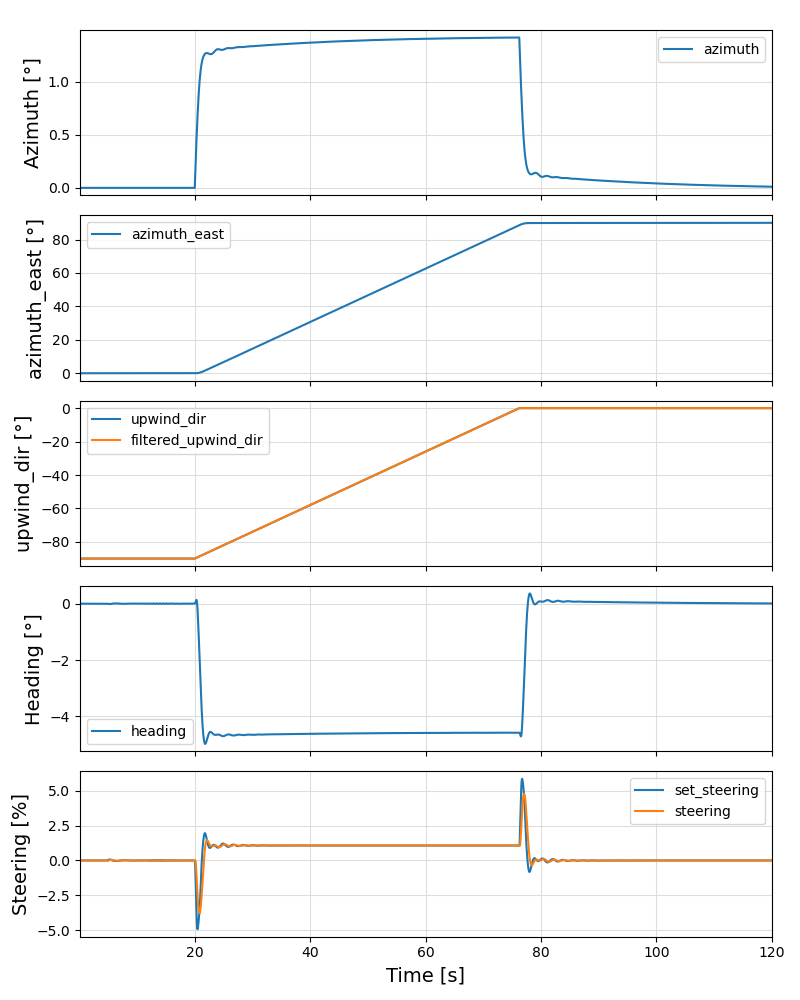
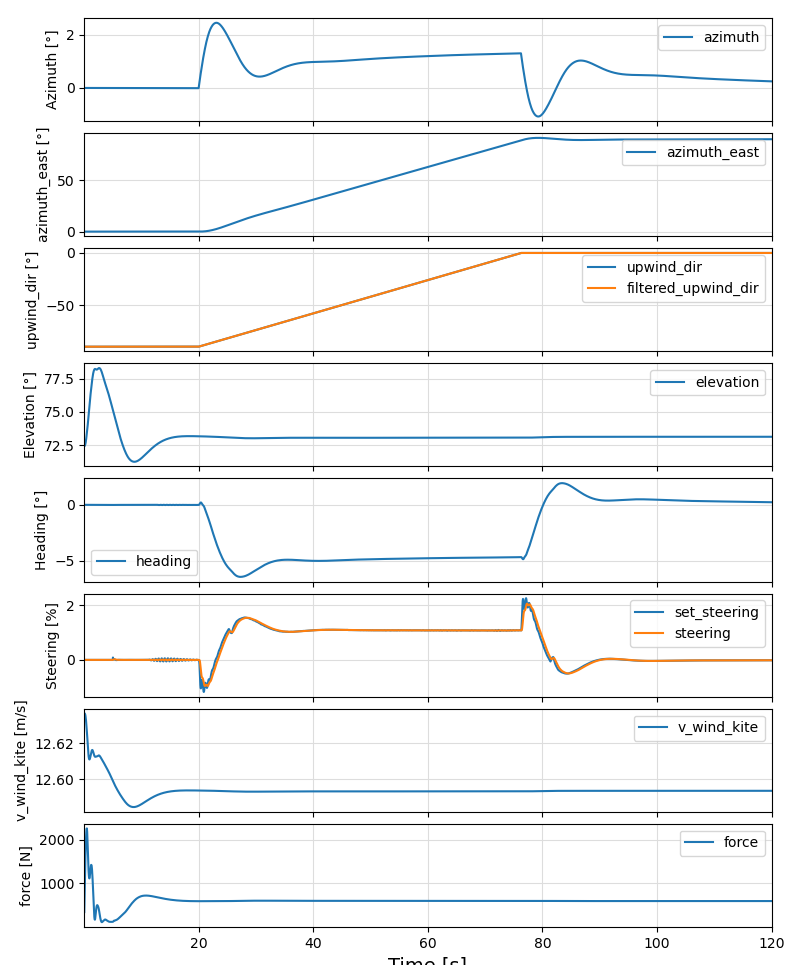
Update docu

Changed region(s): [[0.0, 0.0, 0.9688, 1.0], [0.375, 0.1244, 0.4062, 0.1554]]

diff --git a/docs/src/projects.md b/docs/src/projects.md
@@ -84,7 +84,7 @@ The example "parking\_wind\_dir.jl" produces the following output:
 
 ![Output of parking_wind_dir.jl without turbulence](parking_wind_dir_T0.png)
 
-### With turbulence (7.1% turbulence intensity)
+### With turbulence (8.9% turbulence intensity)
 
 ![Output of parking_wind_dir.jl with turbulence](parking_wind_dir_T1.png)
 